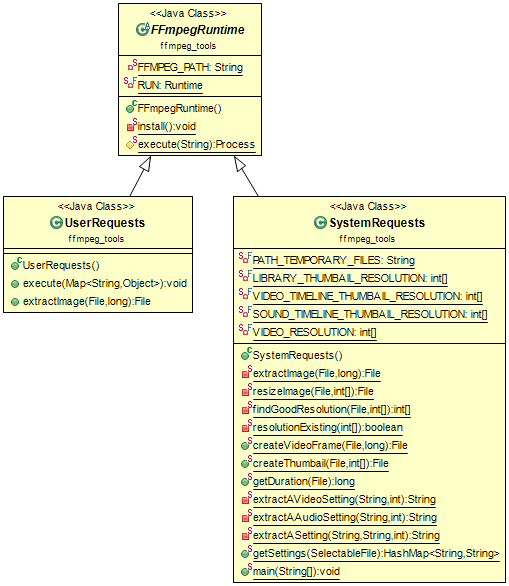
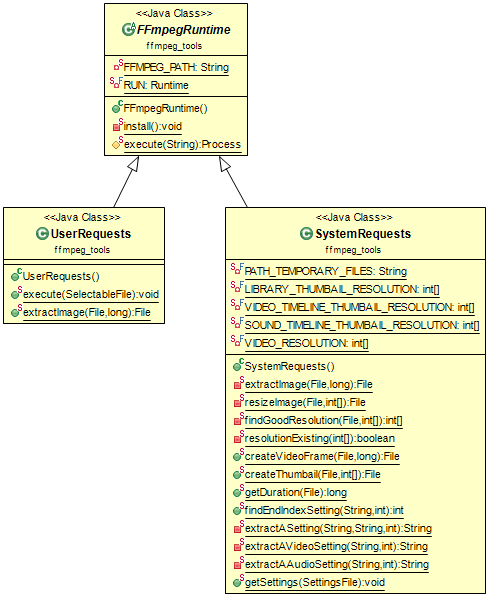
Mise ne place de execute dans UserRequests 2.

Changed region(s): [[0.0, 0.0, 1.0, 1.0]]

diff --git a/src/gui_conversion/SoundSettingsPanel.java b/src/gui_conversion/SoundSettingsPanel.java
@@ -4,6 +4,9 @@ import java.awt.BorderLayout;
 import java.awt.Dimension;
 import java.awt.FlowLayout;
 import java.awt.GridLayout;
+import java.util.HashMap;
+import java.util.Observable;
+import java.util.Observer;
 
 import javax.swing.BoxLayout;
 import javax.swing.JComboBox;
@@ -12,16 +15,19 @@ import javax.swing.JLabel;
 import javax.swing.JPanel;
 import javax.swing.JTextField;
 
-public class SoundSettingsPanel extends JPanel {
+import files.SettingsFile;
 
+public class SoundSettingsPanel extends JPanel implements Observer{
 	private ConversionModel model;
+	private JTextField includeBitrate;
+	private JTextField includeSamplingRate;
+	private JTextField includeChannels;
+	private JTextField includeVolume;
+	
 	
 	public SoundSettingsPanel(ConversionModel m) {
 		this.model = m;
-		this.reevaluatePanel();
-	}
-	
-	private void reevaluatePanel() {
+		
 		this.setLayout(new BoxLayout(this, BoxLayout.Y_AXIS));
 		
 		JPanel pan_codec = new JPanel(new FlowLayout());
@@ -33,36 +39,52 @@ public class SoundSettingsPanel extends JPanel {
 		
 		JPanel pan_vol = new JPanel(new FlowLayout());
 		pan_vol.add(new JLabel("Volume en sortie (en %): "),BorderLayout.WEST);
-		JTextField volume_Text = new JTextField();
-		volume_Text.setPreferredSize(new Dimension(300,20));
-		pan_vol.add(volume_Text,BorderLayout.EAST);
-		volume_Text.setEnabled(false);
+		includeVolume = new JTextField();
+		includeVolume.setPreferredSize(new Dimension(300,20));
+		pan_vol.add(includeVolume,BorderLayout.EAST);
+		includeVolume.setEnabled(false);
 		this.add(pan_vol);
 		
 		JPanel pan_bitrate = new JPanel(new FlowLayout());
 		pan_bitrate.add(new JLabel("Bitrate (kb/s) : "),BorderLayout.WEST);
-		JTextField bitrate_Text = new JTextField();
-		bitrate_Text.setPreferredSize(new Dimension(300,20));
-		pan_bitrate.add(bitrate_Text,BorderLayout.EAST);
-		bitrate_Text.setEnabled(false);
+		includeBitrate = new JTextField();
+		includeBitrate.setPreferredSize(new Dimension(300,20));
+		pan_bitrate.add(includeBitrate,BorderLayout.EAST);
+		includeBitrate.setEnabled(false);
 		this.add(pan_bitrate);
 		
 		JPanel pan_echant = new JPanel(new FlowLayout());
 		pan_echant.add(new JLabel("Taux d'echantillonnage (Hz) : "),BorderLayout.WEST);
-		JTextField enchant_Text = new JTextField();
-		enchant_Text.setPreferredSize(new Dimension(300,20));
-		pan_echant.add(enchant_Text,BorderLayout.EAST);
-		enchant_Text.setEnabled(false);
+		includeSamplingRate = new JTextField();
+		includeSamplingRate.setPreferredSize(new Dimension(300,20));
+		pan_echant.add(includeSamplingRate,BorderLayout.EAST);
+		includeSamplingRate.setEnabled(false);
 		this.add(pan_echant);
 		
 		JPanel pan_canaux = new JPanel(new FlowLayout());
 		pan_canaux.add(new JLabel("Nombre de canaux audio en sortie : "),BorderLayout.WEST);
-		JTextField canaux_Text = new JTextField();
-		canaux_Text.setPreferredSize(new Dimension(300,20));
-		pan_canaux.add(canaux_Text,BorderLayout.EAST);
-		canaux_Text.setEnabled(false);
+		includeChannels = new JTextField();
+		includeChannels.setPreferredSize(new Dimension(300,20));
+		pan_canaux.add(includeChannels,BorderLayout.EAST);
+		includeChannels.setEnabled(false);
 		this.add(pan_canaux);
-		
-		//this.repaint();
+	}
+
+	
+	
+	@Override
+	public void update(Observable o, Object arg) {
+		if(model.getCurrentFile() != null) {
+			HashMap<Integer, Object> settings = model.getCurrentFile().getSettings();
+			includeBitrate.setText( "" +
+					(Integer) settings.get(SettingsFile.AUDIO_BITRATE));
+			includeBitrate.setEnabled(true);
+			includeSamplingRate.setText( "" +
+					(Integer) settings.get(SettingsFile.SAMPLING_RATE));
+			includeSamplingRate.setEnabled(true);
+			includeChannels.setText( "" +
+					(Integer) settings.get(SettingsFile.NUMBER_AUDIO_CHANNELS));
+			includeChannels.setEnabled(true);
+		}
 	}
 }

diff --git a/src/gui_conversion/VideoSettingsPanel.java b/src/gui_conversion/VideoSettingsPanel.java
@@ -6,6 +6,9 @@ import java.awt.FlowLayout;
 import java.awt.event.ActionEvent;
 import java.awt.event.ActionListener;
 import java.io.File;
+import java.util.HashMap;
+import java.util.Observable;
+import java.util.Observer;
 
 import javax.swing.BoxLayout;
 import javax.swing.JButton;
@@ -17,18 +20,20 @@ import javax.swing.JTextField;
 
 import files.SettingsFile;
 
-public class VideoSettingsPanel extends JPanel {
-
+public class VideoSettingsPanel extends JPanel implements Observer{
 	private ConversionModel model;
-
+	private JTextField includeResolution;
+	private JTextField includeBitrate;
+	private JTextField includeFps;
+	
 	public VideoSettingsPanel(ConversionModel m) {
 		this.model = m;
-		this.reevaluatePanel();
-	}
-
-	private void reevaluatePanel() {
+		
+		includeResolution = new JTextField();
+		includeBitrate = new JTextField();
+		includeFps = new JTextField();
+		
 		this.setSize(new Dimension(400, 400));
-
 		this.setLayout(new BoxLayout(this, BoxLayout.Y_AXIS));
 
 		JPanel Codec = new JPanel();
@@ -58,30 +63,28 @@ public class VideoSettingsPanel extends JPanel {
 		});
 
 		Codec.add(box_format, BorderLayout.EAST);
-
+		
 		JPanel reso = new JPanel();
 		reso.setLayout(new FlowLayout());
+		
 		reso.add(new JLabel("Resolution : "), BorderLayout.WEST);
-		JTextField resolution_Text = new JTextField();
-		resolution_Text.setPreferredSize(new Dimension(300, 20));
-		resolution_Text.setEnabled(false);
-		reso.add(resolution_Text, BorderLayout.EAST);
+		includeResolution.setPreferredSize(new Dimension(300, 20));
+		includeResolution.setEnabled(false);
+		reso.add(includeResolution, BorderLayout.EAST);
 
 		JPanel br = new JPanel();
 		br.setLayout(new FlowLayout());
 		br.add(new JLabel("Bitrate (kb/s) : "), BorderLayout.WEST);
-		JTextField bitrate_Text = new JTextField();
-		bitrate_Text.setPreferredSize(new Dimension(300, 20));
-		bitrate_Text.setEnabled(false);
-		br.add(bitrate_Text, BorderLayout.EAST);
+		includeBitrate.setPreferredSize(new Dimension(300, 20));
+		includeBitrate.setEnabled(false);
+		br.add(includeBitrate, BorderLayout.EAST);
 
 		JPanel panef = new JPanel();
 		panef.setLayout(new FlowLayout());
 		panef.add(new JLabel("Images par seconde (FPS) : "), BorderLayout.WEST);
-		JTextField fps_Text = new JTextField();
-		fps_Text.setPreferredSize(new Dimension(300, 20));
-		fps_Text.setEnabled(false);
-		panef.add(fps_Text, BorderLayout.EAST);
+		includeFps.setPreferredSize(new Dimension(300, 20));
+		includeFps.setEnabled(false);
+		panef.add(includeFps, BorderLayout.EAST);
 
 		JPanel panest = new JPanel();
 		panest.setLayout(new FlowLayout());
@@ -110,7 +113,25 @@ public class VideoSettingsPanel extends JPanel {
 		this.add(br);
 		this.add(panef);
 		this.add(panest);
-		// this.repaint();
 	}
-
+	
+	
+	
+	@Override
+	public void update(Observable o, Object arg) { 
+		if(model.getCurrentFile() != null) {
+			HashMap<Integer, Object> settings = model.getCurrentFile().getSettings();
+			includeResolution.setText( "" +
+					( (Integer[]) settings.get(SettingsFile.VIDEO_RESOLUTION) )[0]
+					+"x"
+					+ ( (Integer[]) settings.get(SettingsFile.VIDEO_RESOLUTION) )[1]);	
+			includeResolution.setEnabled(true);
+			includeBitrate.setText( "" +
+					(Integer) settings.get(SettingsFile.VIDEO_BITRATE));
+			includeBitrate.setEnabled(true);
+			includeFps.setText( "" +
+					(Double) settings.get(SettingsFile.FPS));
+			includeFps.setEnabled(true);
+		}
+	}
 }

diff --git a/src/gui_conversion/TabsView.java b/src/gui_conversion/TabsView.java
@@ -5,25 +5,16 @@ import java.util.Observer;
 
 import javax.swing.JTabbedPane;
 
-public class TabsView extends JTabbedPane implements Observer{
-	
-	public ConversionModel model;
+public class TabsView extends JTabbedPane{
+	private ConversionModel model;
 	
 	public TabsView(ConversionModel m) {
 		this.model = m;
-		this.reevaluateTabbedPanel();
-	}
-	
-	private void reevaluateTabbedPanel() {
 		VideoSettingsPanel vsp = new VideoSettingsPanel(this.model);
 		SoundSettingsPanel ssp = new SoundSettingsPanel(this.model);
 		this.add("Video",vsp);
 		this.add("Son",ssp);
-		//this.repaint();
-	}
-
-	@Override
-	public void update(Observable arg0, Object arg1) {
-		//this.repaint();
+		model.addObserver(vsp);
+		model.addObserver(ssp);
 	}
 }

diff --git a/src/ffmpeg_tools/SystemRequests.java b/src/ffmpeg_tools/SystemRequests.java
@@ -448,12 +448,6 @@ public final class SystemRequests extends FFmpegRuntime{
 	}
 	
 	
-	
-	public static void main(String[] args){
-		File file = new File("C:\\Users\\Jean-christophe\\Documents\\PROFESSIONNEL\\2A\\projetTutore\\test\\1.avi");
-		SettingsFile file2 = new SettingsFile(file);
-		
-	}
 	//=======================================================================================================================
 	//=======================================================================================================================
 }
